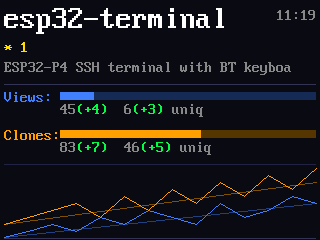
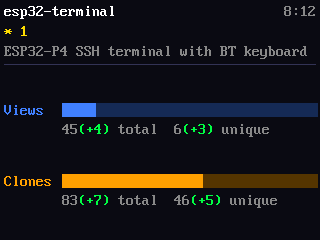
Add CYD28 release binary; rename P4 binary for symmetry
- releases/esp32-gh-dashboard-cyd28-flash.bin: merged ESP32 binary
  for the CYD 2.8" ILI9341 board (bootloader at 0x1000 + partition
  table at 0x8000 + app at 0x10000, ready to flash at offset 0x0).
- releases/esp32-gh-dashboard-flash.bin renamed to *-p4-flash.bin
  for symmetry with the new CYD binary.
- Refresh assets/cyd_{summary,repo}.png to reflect the current
  Waveshare-style stat row layout.
- README: list both supported boards up front, show CYD screenshots
  alongside P4, give per-board flash commands. Note that CYD has no
  BOOT-button re-provisioning yet — users can either reflash to wipe
  settings, or rely on the auto-redirect to provisioning on GitHub
  401/403 to fix a bad token without losing their WiFi creds.

diff --git a/README.md b/README.md
@@ -1,14 +1,20 @@
 # esp32-gh-dashboard
 
-A GitHub traffic dashboard for the **Waveshare ESP32-P4-WIFI6-Touch-LCD-4B**. Shows views, clones, stars, and day-over-day deltas for all your repositories, cycling through a summary screen and a per-repo detail screen for each.
+A GitHub traffic dashboard for ESP32-family display boards. Shows views, clones, stars, and day-over-day deltas for all your repositories, cycling through a summary screen and a per-repo detail screen for each.
 
-<img src="assets/screenshot.png" alt="Summary screen" width="320"><img src="assets/screenshot2.png" alt="Repo screen" width="320">
+**Supported boards:**
+
+- **Waveshare ESP32-P4-WIFI6-Touch-LCD-4B** (720×720 round) — flagship target
+- **ESP32 "CYD" 2.8" ILI9341** (320×240 — also sold as E32R28T / E32N28T) — compact alternative
+
+<img src="assets/screenshot.png" alt="P4 summary screen" width="240"><img src="assets/screenshot2.png" alt="P4 repo screen" width="240">
+<img src="assets/cyd_summary.png" alt="CYD summary screen" width="240"><img src="assets/cyd_repo.png" alt="CYD repo screen" width="240">
 
 ---
 
 ## What you need
 
-- Waveshare ESP32-P4-WIFI6-Touch-LCD-4B
+- One of the supported boards above
 - A GitHub classic personal access token with `repo` scope — [how to create one](https://docs.github.com/en/authentication/keeping-your-account-and-data-secure/managing-your-personal-access-tokens#creating-a-personal-access-token-classic)
 - The [github-traffic-log](https://github.com/dmatking/github-traffic-log) companion repo set up and running (collects your traffic data daily)
 
@@ -16,17 +22,33 @@ A GitHub traffic dashboard for the **Waveshare ESP32-P4-WIFI6-Touch-LCD-4B**. Sh
 
 ## 1. Flash the firmware
 
+Pick the binary matching your board:
+
+| Board | Binary |
+| ----- | ------ |
+| Waveshare ESP32-P4 | [`releases/esp32-gh-dashboard-p4-flash.bin`](releases/esp32-gh-dashboard-p4-flash.bin) |
+| CYD ESP32 ILI9341 | [`releases/esp32-gh-dashboard-cyd28-flash.bin`](releases/esp32-gh-dashboard-cyd28-flash.bin) |
+
 ### Option A — Web flasher (easiest, no install required)
 
-Open **[ESPConnect](https://thelastoutpostworkshop.github.io/ESPConnect/)** in Chrome or Edge, connect your board via USB, and select `releases/esp32-gh-dashboard-flash.bin` from this repo.
+Open **[ESPConnect](https://thelastoutpostworkshop.github.io/ESPConnect/)** in Chrome or Edge, connect your board via USB, and select the binary for your board from the table above.
 
 ### Option B — esptool (Python)
 
+For the Waveshare P4:
 ```bash
 pip install esptool
 python -m esptool --chip esp32p4 -b 460800 \
   --before default_reset --after hard_reset \
-  write_flash 0x0 releases/esp32-gh-dashboard-flash.bin
+  write_flash 0x0 releases/esp32-gh-dashboard-p4-flash.bin
+```
+
+For the CYD (ESP32):
+```bash
+pip install esptool
+python -m esptool --chip esp32 -b 460800 \
+  --before default_reset --after hard_reset \
+  write_flash 0x0 releases/esp32-gh-dashboard-cyd28-flash.bin
 ```
 
 ---
@@ -47,7 +69,10 @@ On first boot, the device creates a WiFi access point called **GithubDashboard**
 
 The device saves your settings and connects to your WiFi. Subsequent boots connect directly.
 
-**To change any setting**: hold the **BOOT button for 3 seconds** while the device is starting up. The setup page reopens with your existing values pre-filled — change only what you need and tap Save & Connect again.
+**To change any setting**:
+
+- **Waveshare P4**: hold the **BOOT button for 3 seconds** while the device is starting up. The setup page reopens with your existing values pre-filled — change only what you need and tap Save & Connect again.
+- **CYD**: re-flash the binary to clear settings (no button-triggered re-provisioning yet). Or, if you've entered a bad GitHub token, the device will detect the auth failure on its next fetch and drop you back into the setup page automatically — see the "GitHub Auth Failed" screen.
 
 ---
 